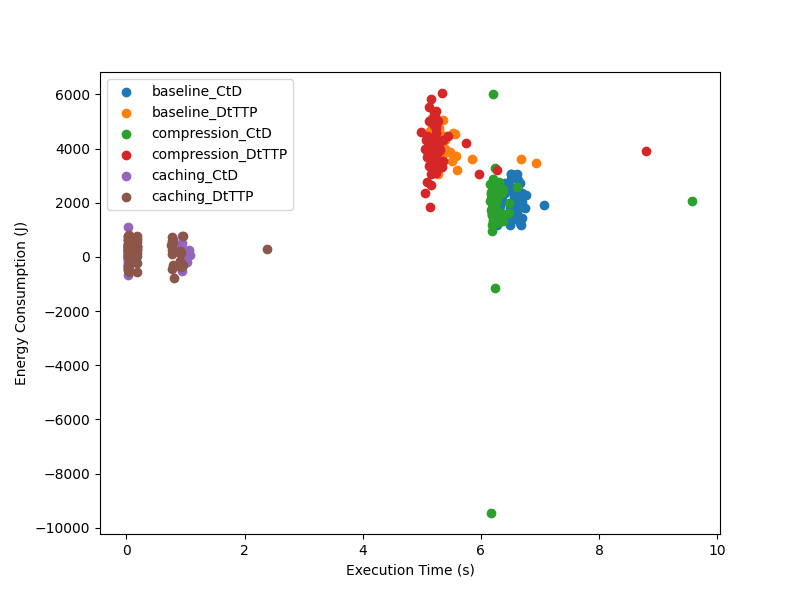
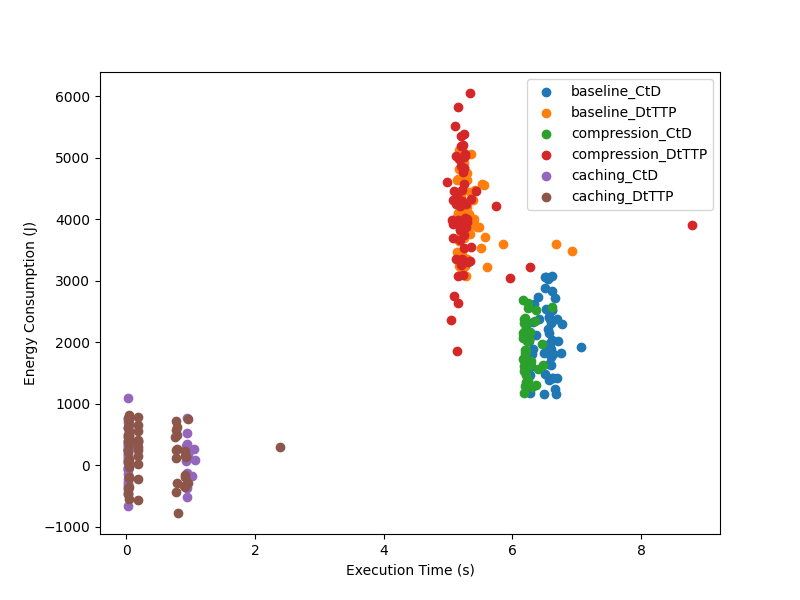
remove anomalies compression compute to data

diff --git a/energy-efficiency/experiments/detect_anomalies.py b/energy-efficiency/experiments/detect_anomalies.py
@@ -13,7 +13,7 @@ def execute_DBSCAN_AD_algorithm(df: pd.DataFrame, exp_dirs, anomaly_folders):
     # DBSCAN parameters, increase eps to detect fewer anomalies
     # TODO: when using this first try to play around with these values to somewhat manually control
     # which are anomalies, mainly use eps. The current threshold is used for earlier anomaly detection and could be good already.
-    dbscan = DBSCAN(eps=100, min_samples=3)
+    dbscan = DBSCAN(eps=30, min_samples=3)
     labels = dbscan.fit_predict(X)
 
     # Anomalies are labeled as -1
